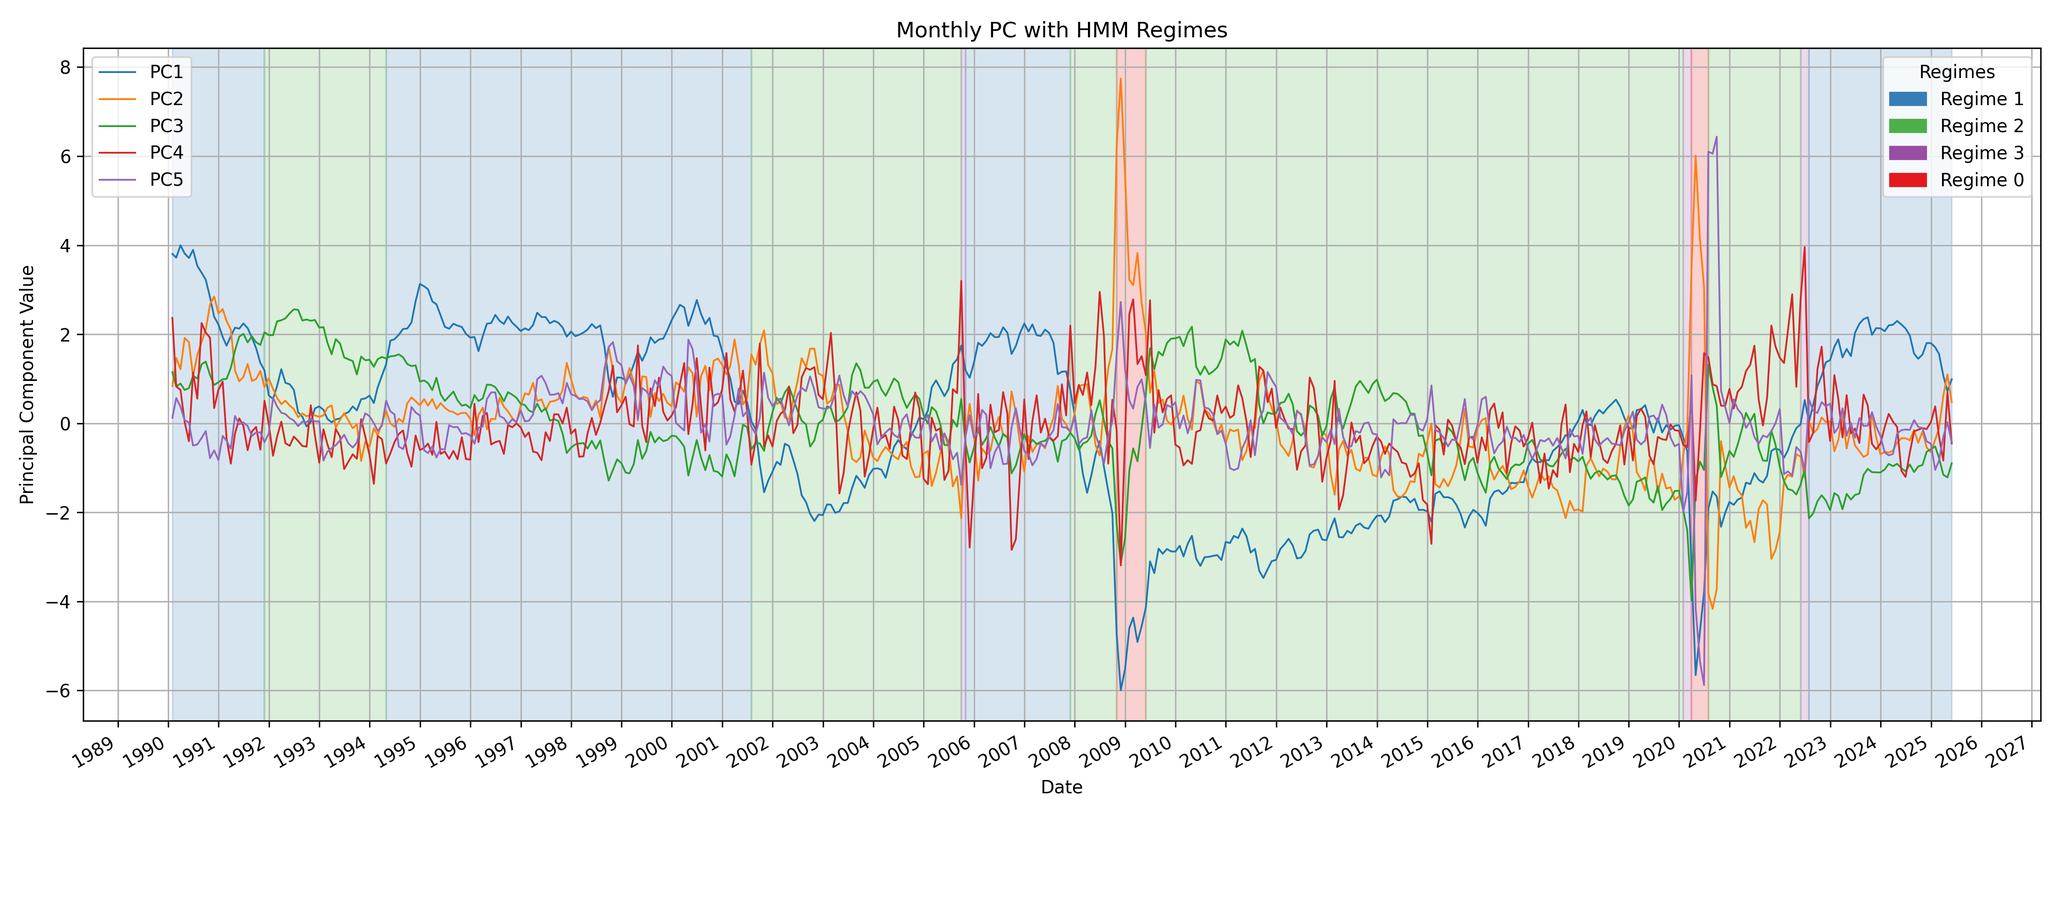
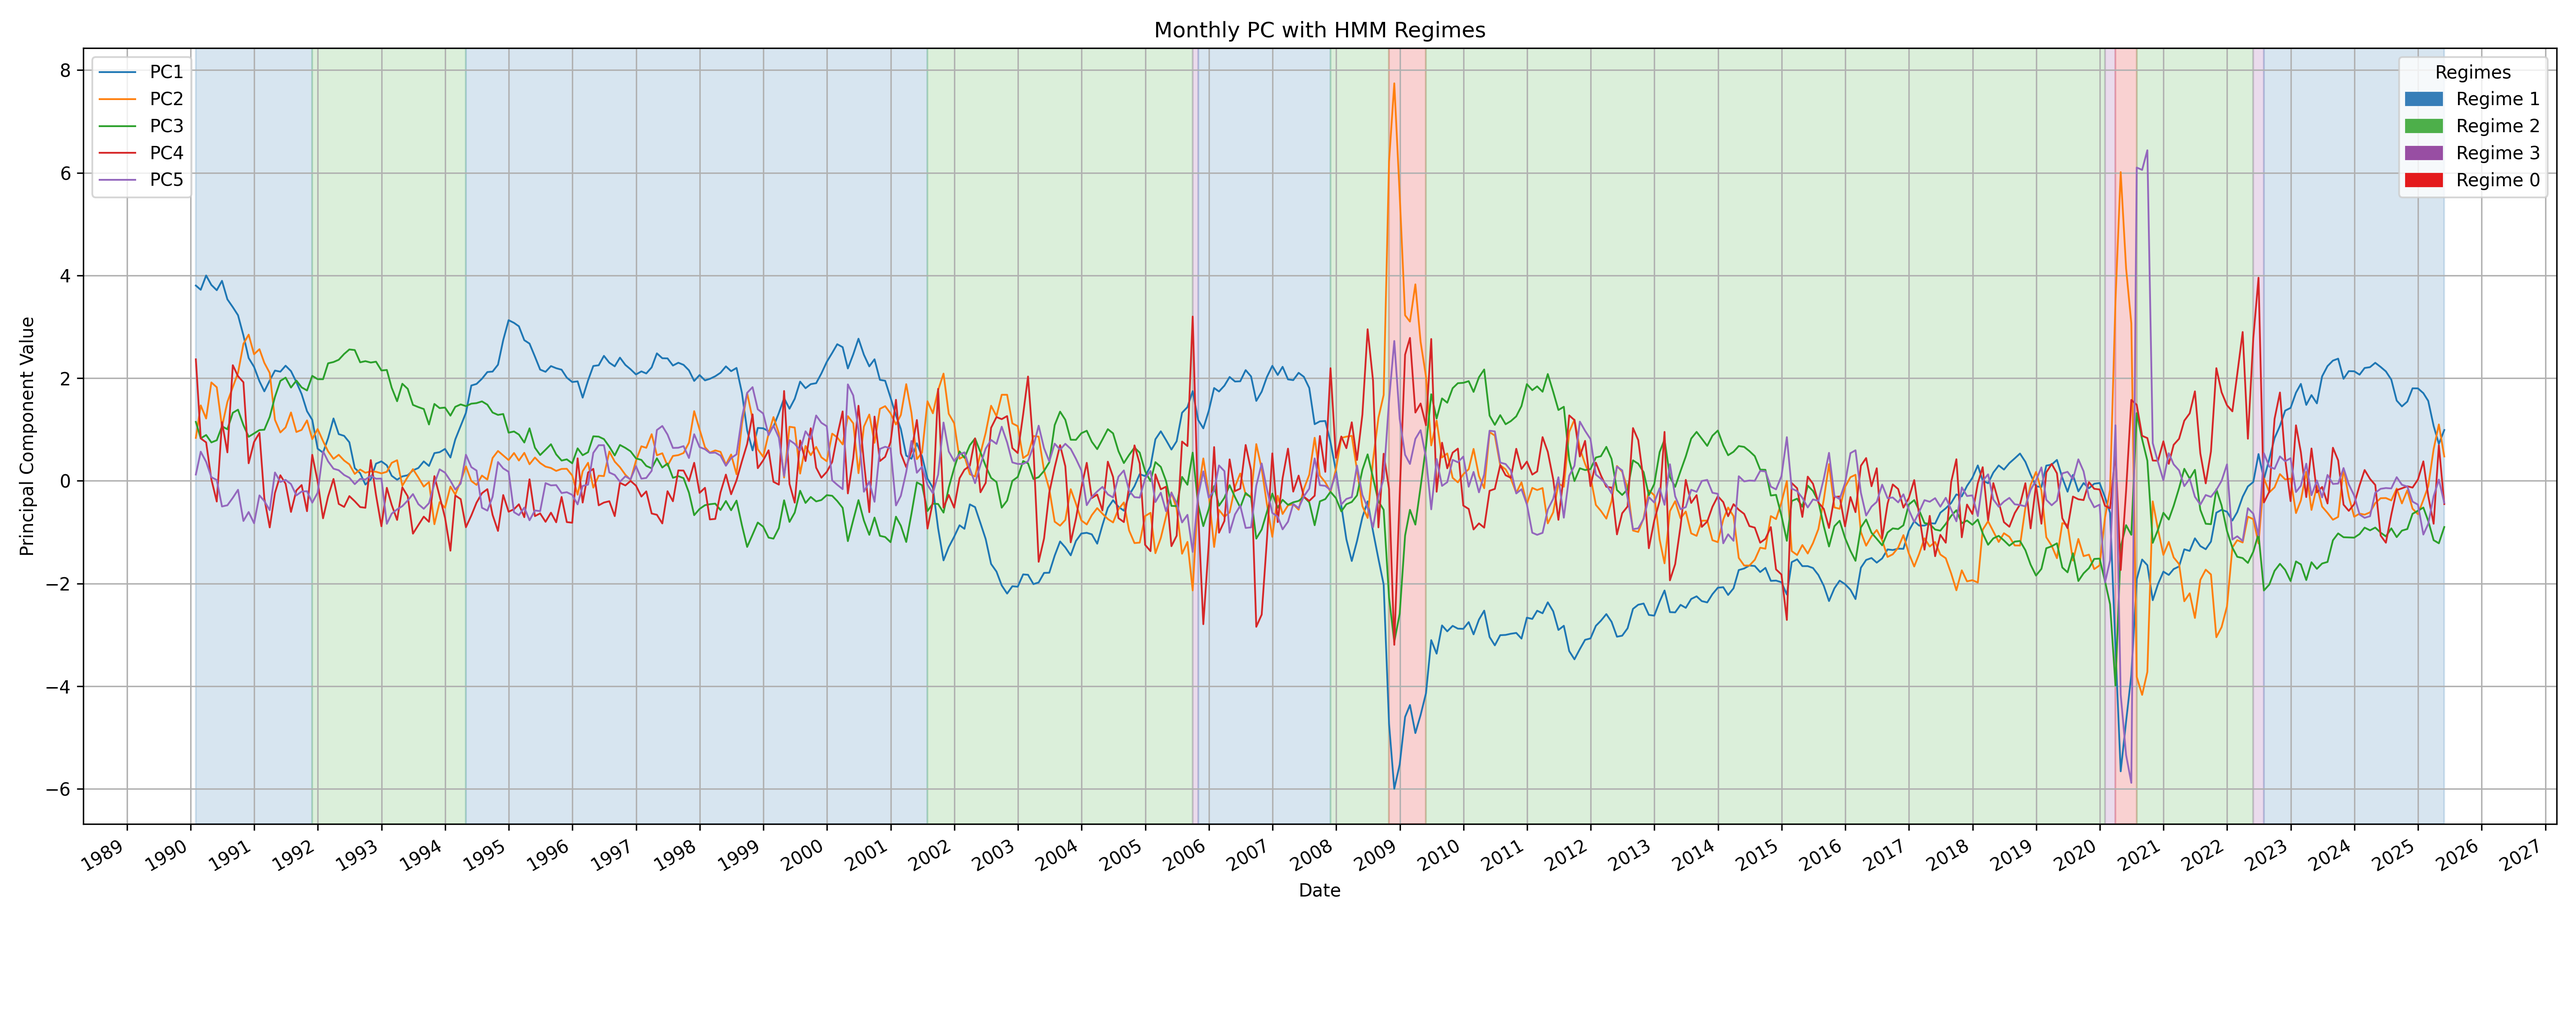
back to normal

Changed region(s): [[0.0, 0.0, 1.0, 0.8976]]

diff --git a/data/pipeline_analysis.py b/data/pipeline_analysis.py
@@ -94,16 +94,20 @@ logging.info('Fetched, processed and saved macroeconomic data as macro_data.csv'
 
 logging.info('Running PCA on macroeconomic data...')
 # Run PCA on macroeconomic data
-n_comps = 4  # Number of components to extract
+n_comps = 5  # Number of components to extract
 m_model = MacroPCA(data=macro_df, n_components=n_comps)
 m_model.standardise()
 pc_df_m = m_model.run_pca()
-scree_plot = m_model.plot_scree(save_path=f'analysis_output/pc{n_comps}_scree_plot.png')
+scree_plot = m_model.plot_scree(save_path=f'analysis_output/pc{n_comps}_scree_plot.png', cumulative=True)
 
 logging.info('PCA justification steps...')
 explained_var = m_model.get_explained_variance()
+cumulative_explained = explained_var[:n_comps].sum()
+print(f'Explained variance for {n_comps} components: {cumulative_explained:.3f}')
 explained_series = pd.Series(explained_var, index=[f'PC{i+1}' for i in range(len(explained_var))])
 explained_series.to_csv(f'analysis_output/pc{n_comps}_explained_variance.csv', index=True)
+loadings_df = m_model.get_loadings()
+loadings_df.to_csv(f'analysis_output/pc{n_comps}_loadings.csv', index=True)
 
 
 pc_df_m.to_csv(f'analysis_output/pc{n_comps}_df_m.csv', index=True)  # Save PCA output
@@ -114,7 +118,7 @@ logging.info('Plotting principal components over time...')
 # Plot the principal components over time
 pc_df_m.index = pd.to_datetime(pc_df_m.index)
 
-plt.figure(figsize=(14, 8))
+plt.figure(figsize=(20, 8))
 for i in range(n_comps):
     plt.plot(pc_df_m.index, pc_df_m.iloc[:, i], label=f'PC{i+1}')
 plt.title('Principal Components Over Time')

diff --git a/data/regime_detection.py b/data/regime_detection.py
@@ -72,6 +72,7 @@ class MacroPCA:
         plt.plot(range(1, len(explained) + 1), explained, marker='o', label='Explained Variance')
         if cumulative:
             plt.plot(range(1, len(cumulative_var) + 1), cumulative_var, marker='x', linestyle='--', label='Cumulative Variance')
+            plt.axhline(y=0.9, color='red', linestyle='--', linewidth=1, label='90% Variance Threshold')
 
         plt.title('Scree Plot of Principal Components')
         plt.xlabel('Principal Component')
@@ -133,7 +134,7 @@ class RegimeHMM():
         else:
             saved_place_name = f"analysis_output/pc{n_pca_components}_r{self.n_regimes}_with_regimes.png"
 
-        plt.figure(figsize=(16, 7))
+        plt.figure(figsize=(20, 8))
         regime_colors = plt.cm.Set1(np.arange(self.n_regimes))
 
         # Plot each principal component
